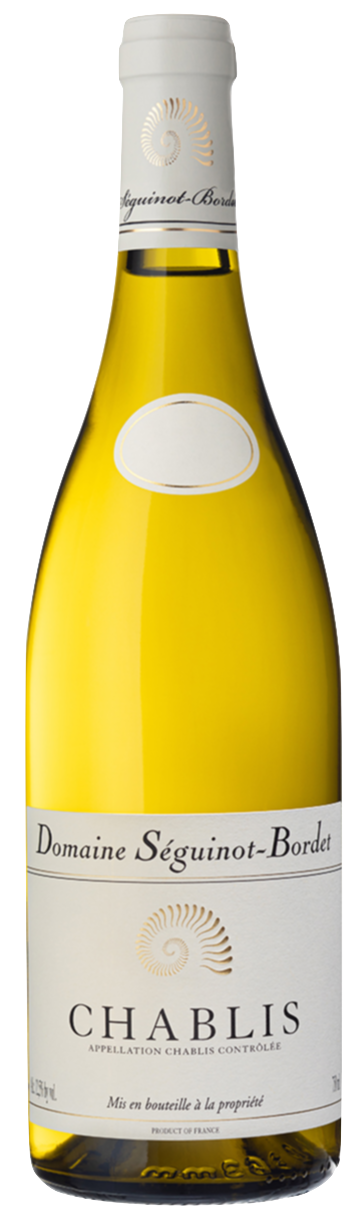
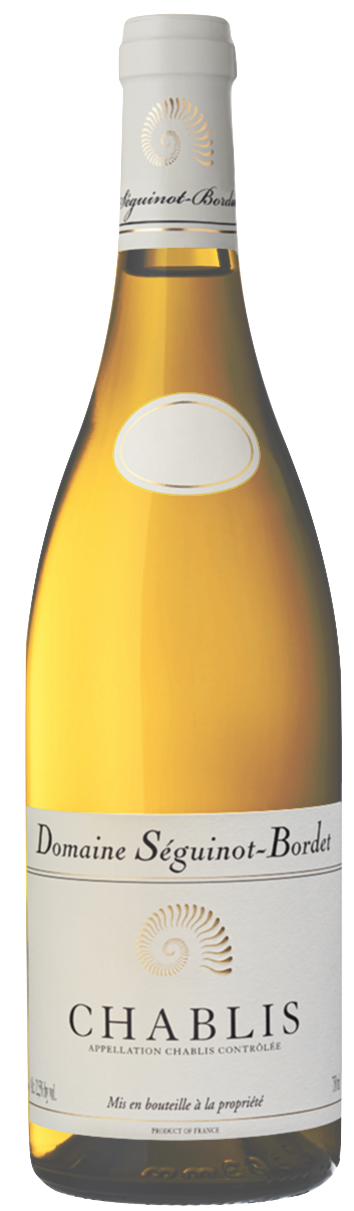
Added opacity to wine

Changed region(s): [[0.0621, 0.1833, 0.9633, 0.6722], [0.0621, 0.9166, 0.9633, 1.0]]

diff --git a/src/version.js b/src/version.js
@@ -1,3 +1,3 @@
-const version = "25.12.26.03"
+const version = "25.12.27.01"
 
 export default version;
